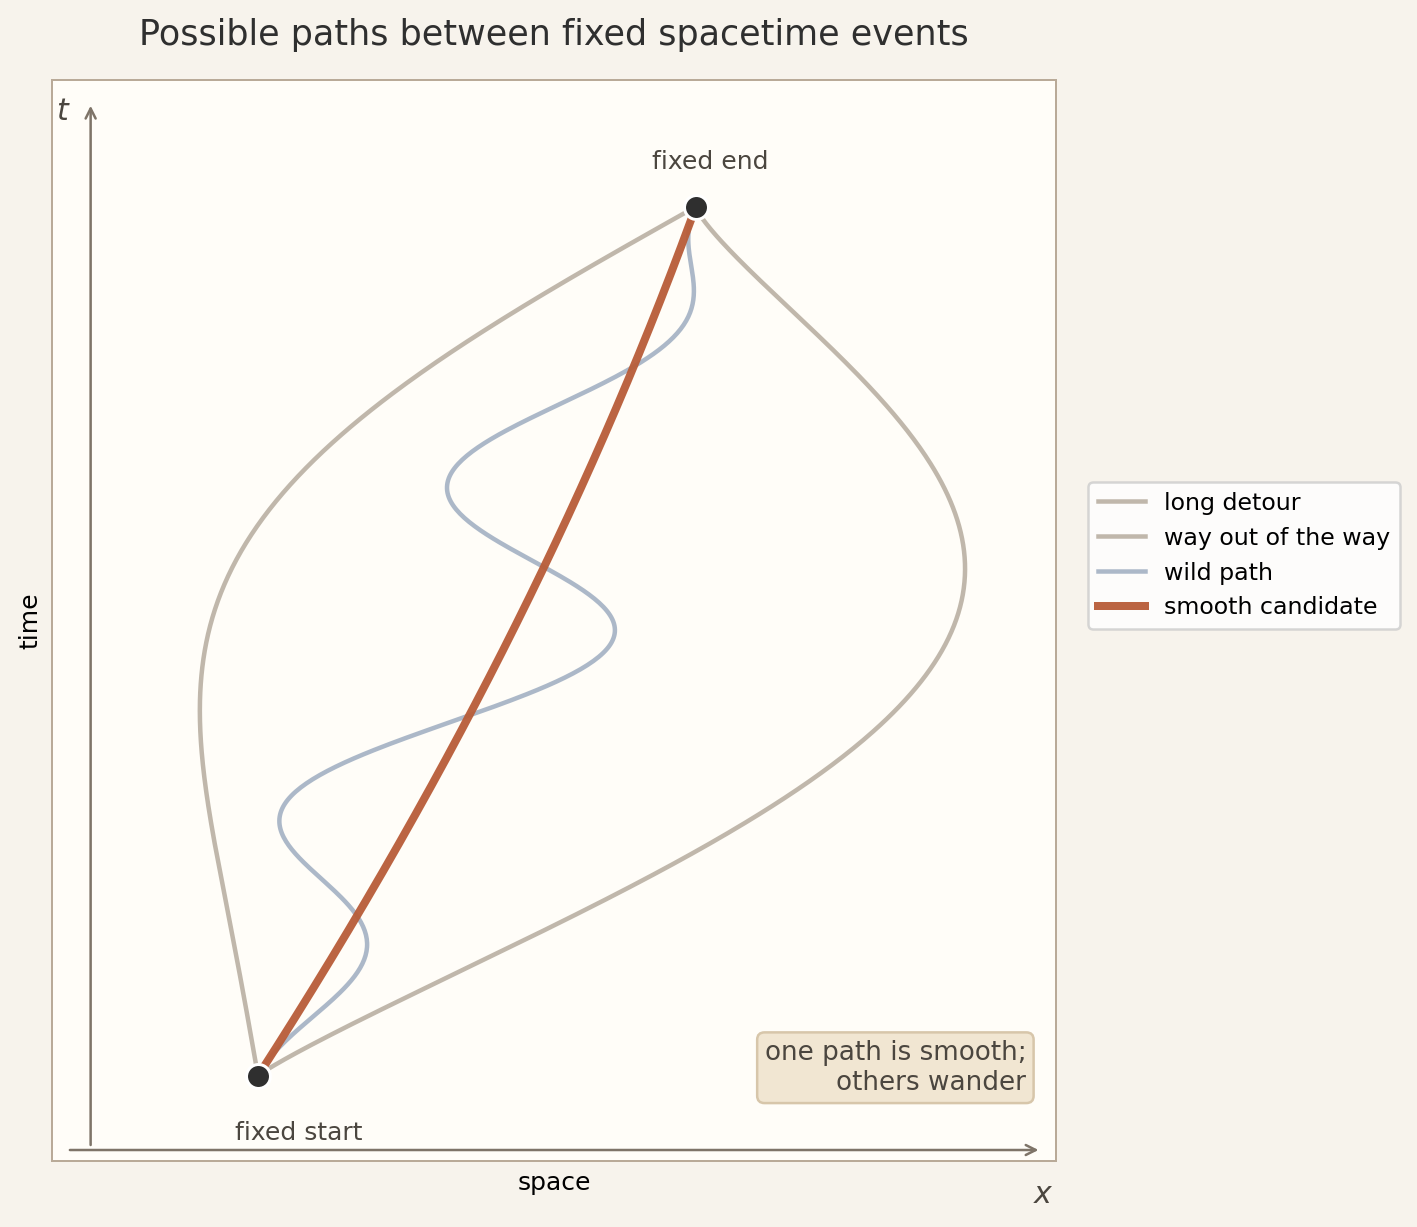
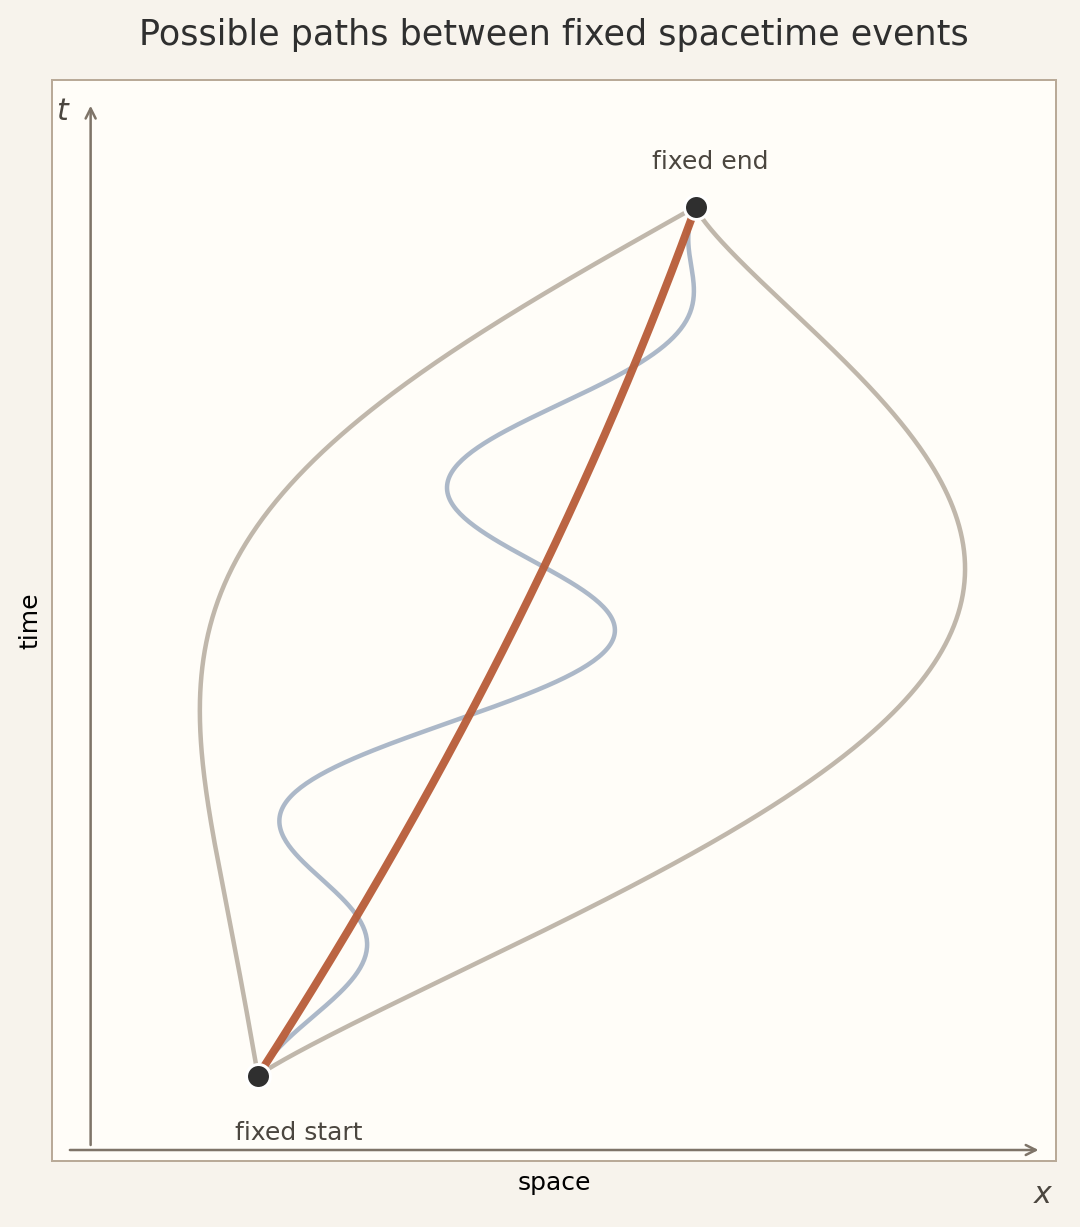
Use article outlines and clean first diagram

diff --git a/scripts/generate_lm_fermat_snell_huygens_variant.py b/scripts/generate_lm_fermat_snell_huygens_variant.py
@@ -444,14 +444,14 @@ def make_possible_spacetime_paths(path: Path) -> None:
     wild = baseline + 1.05 * np.sin(5.0 * np.pi * s) * np.sin(np.pi * s)
 
     candidates = [
-        (low_detour, "#BDB4A7", 1.8, "long detour"),
-        (high_detour, "#BDB4A7", 1.8, "way out of the way"),
-        (wild, "#A8B5C6", 1.8, "wild path"),
-        (nice, "#B85C38", 3.2, "smooth candidate"),
+        (low_detour, "#BDB4A7", 1.8),
+        (high_detour, "#BDB4A7", 1.8),
+        (wild, "#A8B5C6", 1.8),
+        (nice, "#B85C38", 3.2),
     ]
 
-    for x, color, linewidth, label in candidates:
-        ax.plot(x, t, color=color, linewidth=linewidth, alpha=0.95, label=label)
+    for x, color, linewidth in candidates:
+        ax.plot(x, t, color=color, linewidth=linewidth, alpha=0.95)
 
     ax.scatter([x0, x1], [t0, t1], s=92, color="#2F2F2F", edgecolor="white", linewidth=1.2, zorder=6)
     ax.text(x0 - 0.18, t0 - 0.30, "fixed start", fontsize=10, color="#4B463F", ha="left")
@@ -463,18 +463,6 @@ def make_possible_spacetime_paths(path: Path) -> None:
     ax.text(-3.32, 4.86, "$t$", fontsize=12, color="#4B463F")
 
     ax.set_title("Possible paths between fixed spacetime events", fontsize=14, color="#2F2F2F", pad=14)
-    ax.text(
-        0.97,
-        0.06,
-        "one path is smooth;\nothers wander",
-        transform=ax.transAxes,
-        ha="right",
-        va="bottom",
-        fontsize=10.5,
-        color="#4B463F",
-        bbox={"boxstyle": "round,pad=0.28", "fc": "#F1E6D2", "ec": "#D7C6AA"},
-    )
-
     ax.set_xlim(-3.35, 4.45)
     ax.set_ylim(-0.05, 5.05)
     ax.set_aspect("auto")
@@ -482,7 +470,6 @@ def make_possible_spacetime_paths(path: Path) -> None:
     ax.set_ylabel("time")
     ax.set_xticks([])
     ax.set_yticks([])
-    ax.legend(loc="center left", bbox_to_anchor=(1.02, 0.56), frameon=True, fontsize=9.5)
 
     path.parent.mkdir(parents=True, exist_ok=True)
     fig.savefig(path, dpi=180, bbox_inches="tight")

diff --git a/scripts/build_site.py b/scripts/build_site.py
@@ -50,6 +50,8 @@ ARTICLES = [
     Article("Differential Mechanics", "differential-mechanics", DIFFERENTIAL_MECHANICS_DRAFT),
 ]
 
+ARTICLE_BY_SLUG = {article.slug: article for article in ARTICLES}
+
 
 SECTIONS = [
     Section(
@@ -124,6 +126,22 @@ def slugify(text: str) -> str:
     return slug or "section"
 
 
+def article_outline(article: Article) -> list[str]:
+    markdown = article.draft.read_text(encoding="utf-8")
+    return [
+        line.removeprefix("## ").strip()
+        for line in markdown.splitlines()
+        if line.startswith("## ") and not line.startswith("### ")
+    ]
+
+
+def outline_for_section(section: Section) -> list[str]:
+    article = ARTICLE_BY_SLUG.get(section.slug)
+    if article is not None:
+        return article_outline(article)
+    return section.outline
+
+
 def page_shell(title: str, body: str, toc: str = "") -> str:
     nav_links = "\n".join(
         f'          <a href="{site_path("/" + article.slug + "/")}">{html.escape(article.title)}</a>'
@@ -184,8 +202,9 @@ def render_home() -> str:
         label = html.escape(section.title)
         title = f'<a href="{site_path(section.href)}">{label}</a>{status}{new_badge}' if section.href else f"<span>{label}</span>{status}"
         outline = ""
-        if section.outline:
-            outline_items = "\n".join(f"<li>{html.escape(item)}</li>" for item in section.outline)
+        section_outline = outline_for_section(section)
+        if section_outline:
+            outline_items = "\n".join(f"<li>{html.escape(item)}</li>" for item in section_outline)
             outline = f"<details><summary>Outline</summary><ol>{outline_items}</ol></details>"
         items.append(
             f"""<li class="{card_class}">
